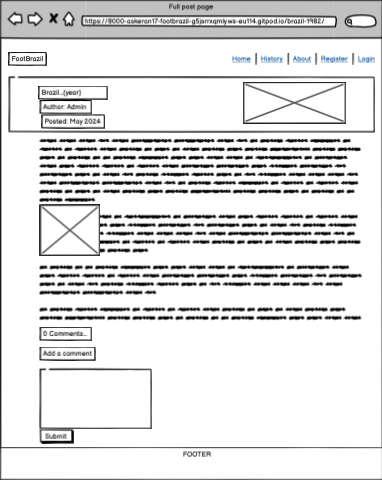
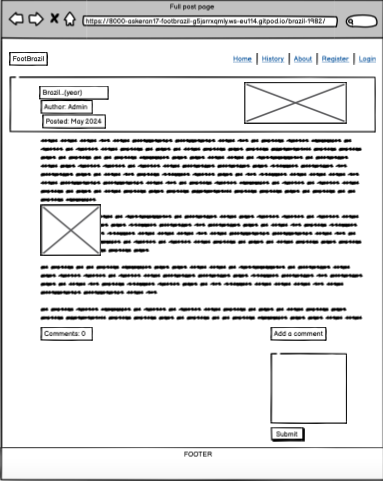
fixed approval comment

diff --git a/static/css/style.css b/static/css/style.css
@@ -270,6 +270,13 @@ body {
 }
 
 /* Edit/Delete post */
+.edit-delete {
+    position: relative;
+    right: -222px;
+    bottom: 35px;
+}
+
+
 .press-edit-delete {
     padding: 10px 10px;
     font-size: 11px;
@@ -277,16 +284,15 @@ body {
     cursor: pointer;
     outline: none;
     color: #fff;
-    background-color: #353538;
+    background-color: #73cbad5e;
     border: none;
     border-radius: 15px;
-    box-shadow: 0 2px #999;
     position: relative;
     top: -7px;
 }
 
 .press-edit-delete:hover {
-    background-color: #494f57
+    background-color: #54917d5e;
 }
 
 .press-edit-delete:active {
@@ -470,7 +476,7 @@ body {
 @media only screen and (min-width: 335px) {
 
     .masthead {
-        margin-bottom: -100px;
+        height: 200px;
     }
 
     .masthead-home {
@@ -492,7 +498,7 @@ body {
 @media screen and (min-width: 768px) {
 
     .masthead {
-        margin-bottom: -150px;
+        
     }
 
     .masthead-home {
@@ -552,10 +558,6 @@ body {
 /* Large devices (laptops and desktops, 1024px and up) */
 @media screen and (min-width: 1024px) {
 
-    .masthead {
-        margin-bottom: -10px;
-    }
-
     .masthead-home {
         margin-top: 0px;
         overflow: hidden;
@@ -610,6 +612,10 @@ body {
 /* Large devices (laptops and desktops, 1200px and up) */
 @media screen and (min-width: 1200px) {
 
+    .masthead {
+        height: 230px;    
+    }
+
     .p-text-history {
         font-size: 1rem;
     }
@@ -631,6 +637,11 @@ body {
 
     .footer {
         height: auto;
+    }
+
+    .edit-delete {
+        bottom: 34px;
+        position: relative;
     }
 }
 

diff --git a/portal/templates/portal/full_post.html b/portal/templates/portal/full_post.html
@@ -14,18 +14,6 @@
         <p class="post-subtitle"> Posted:
           {{ post.date}}
         </p>
-      </div>
-      <div class="d-none d-md-block col-md-6 masthead-image">
-        <img src="{{ post.featured_image.url }}" class="img-fluid rounded mx-auto d-block" alt="default placeholder">
-      </div>
-    </div>
-  </div>
-</div>
-
-<div class="container">
-  <div class="row">
-    <div class="col card mb-4 mt-3 left top">
-      <div class="card-body full-post-text">
         <div class="edit-delete">
           {% if user.is_superuser %}
           <span>
@@ -34,6 +22,17 @@
           </span>
           {% endif %}
         </div>
+      </div>
+      <div class="d-none d-md-block col-md-6 masthead-image">
+        <img src="{{ post.featured_image.url }}" class="img-fluid rounded mx-auto d-block" alt="default placeholder">
+      </div>
+    </div>
+  </div>
+</div>
+<div class="container">
+  <div class="row">
+    <div class="col card mb-4 mt-3 left top">
+      <div class="card-body full-post-text">
         <!-- The post content goes inside the card-text. -->
         <!-- Use the | safe filter inside the template tags -->
         <div class="card-text">

diff --git a/README.md b/README.md
@@ -212,6 +212,9 @@ __Detailed post page__
 ![Detailed Post Page](/static/images/readme-img/detailed-post-page.png)
 ![Comments Field](/static/images/readme-img/comments-field.png)
 
+- When a user has left a comment, the comment awaits admin approval
+![Comment Approval](/static/images/readme-img/comment-approval.png)
+
 __History page__
 
 - On this page I have displayed on the left side the statistics of the performances of the Brazilian national team at the World Championships, and on the left side the history of performances at the World Championships
